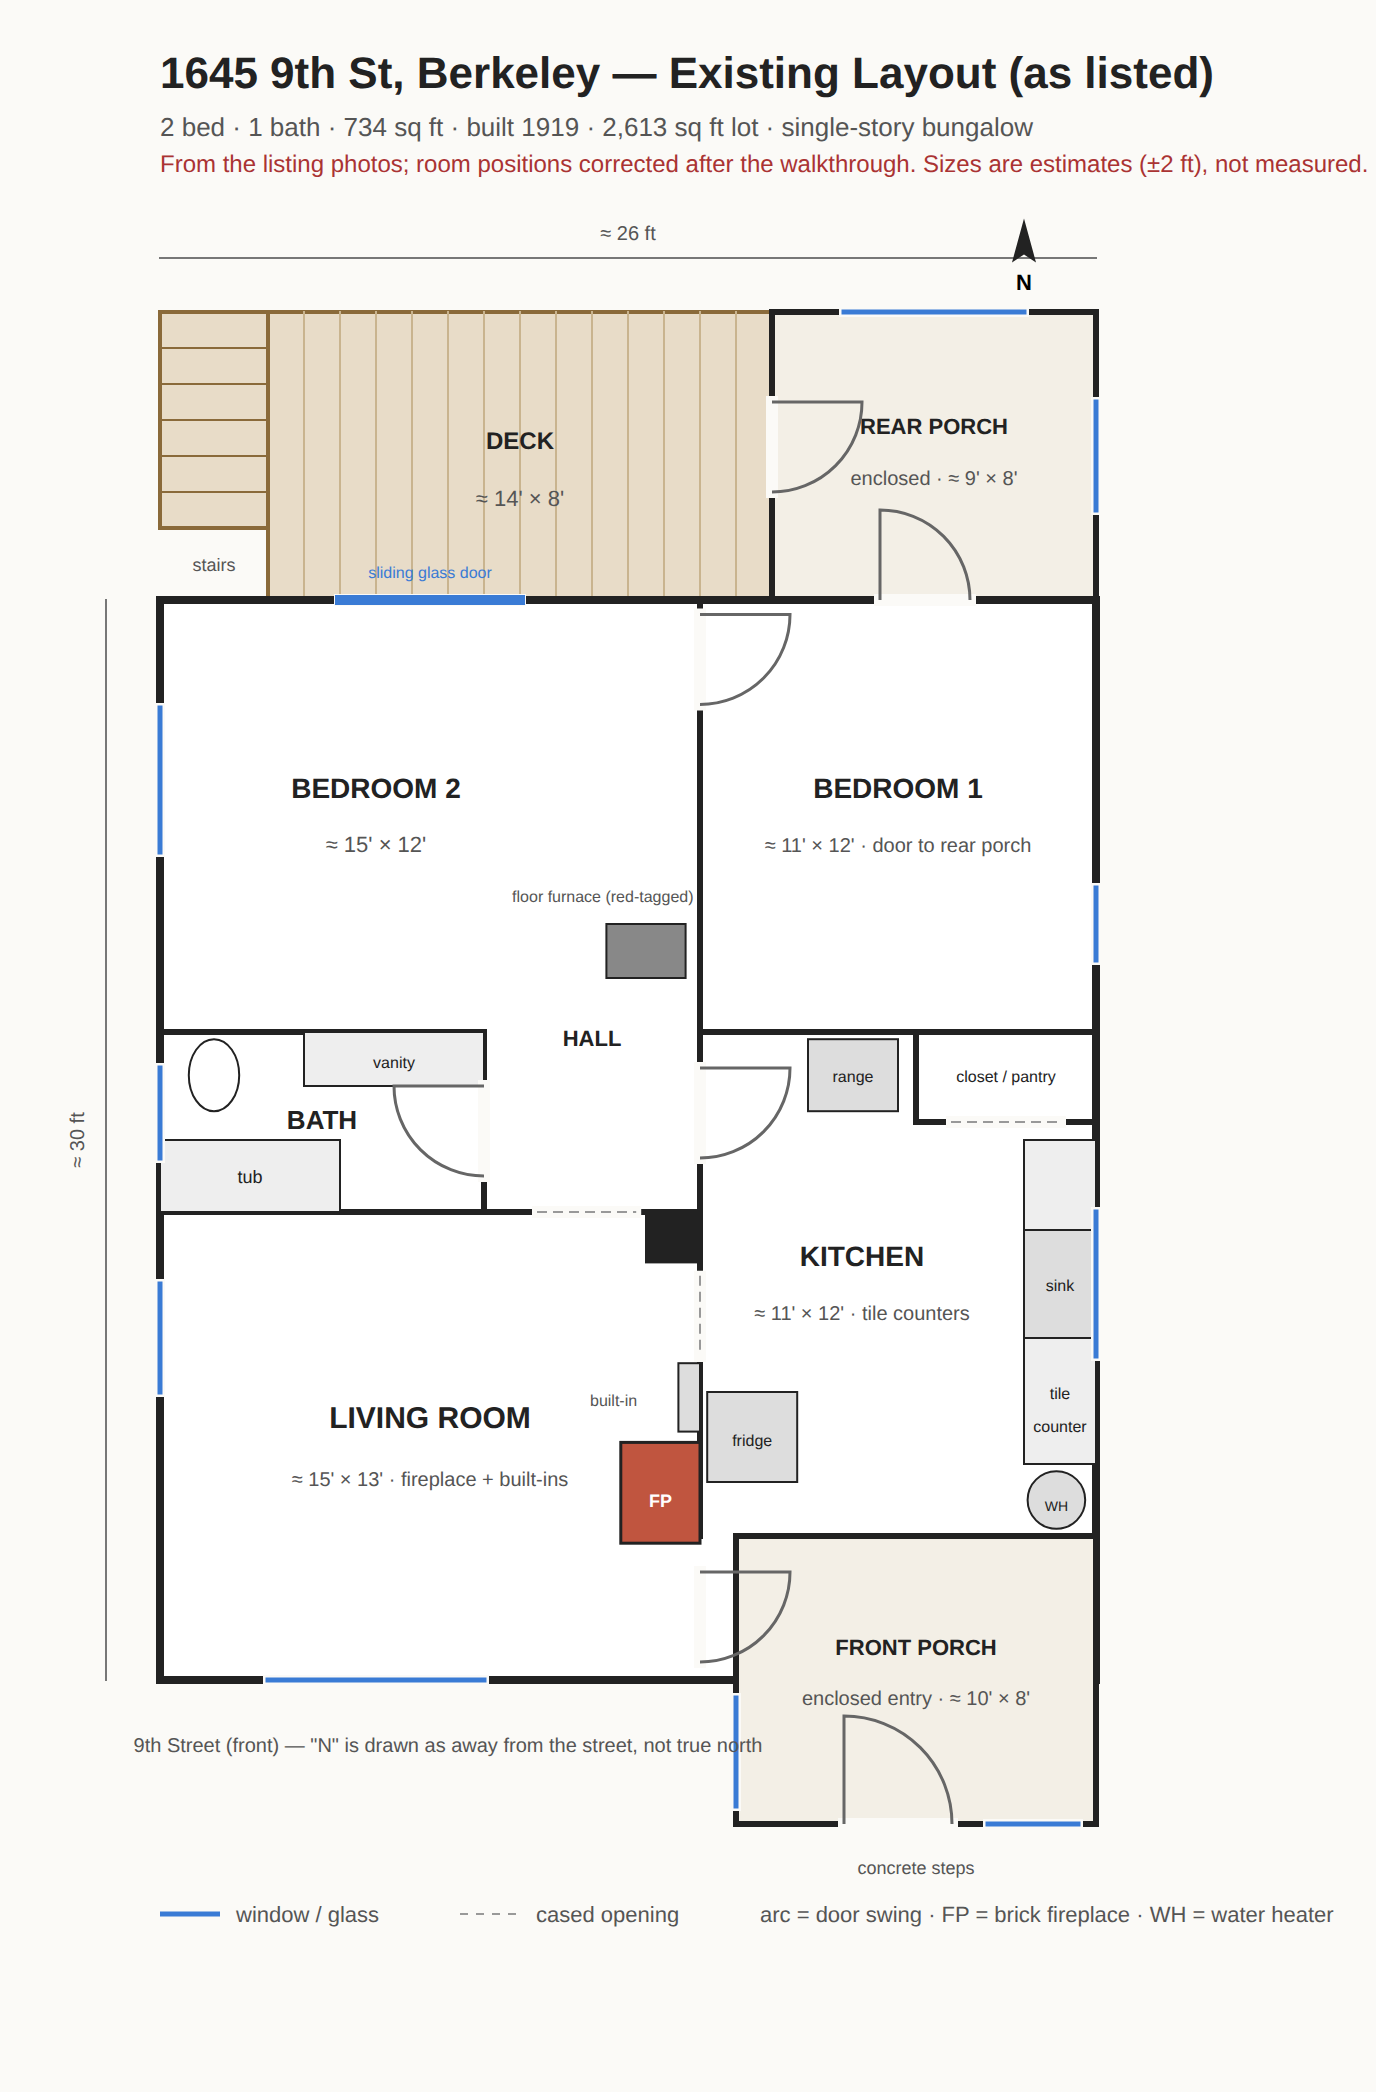
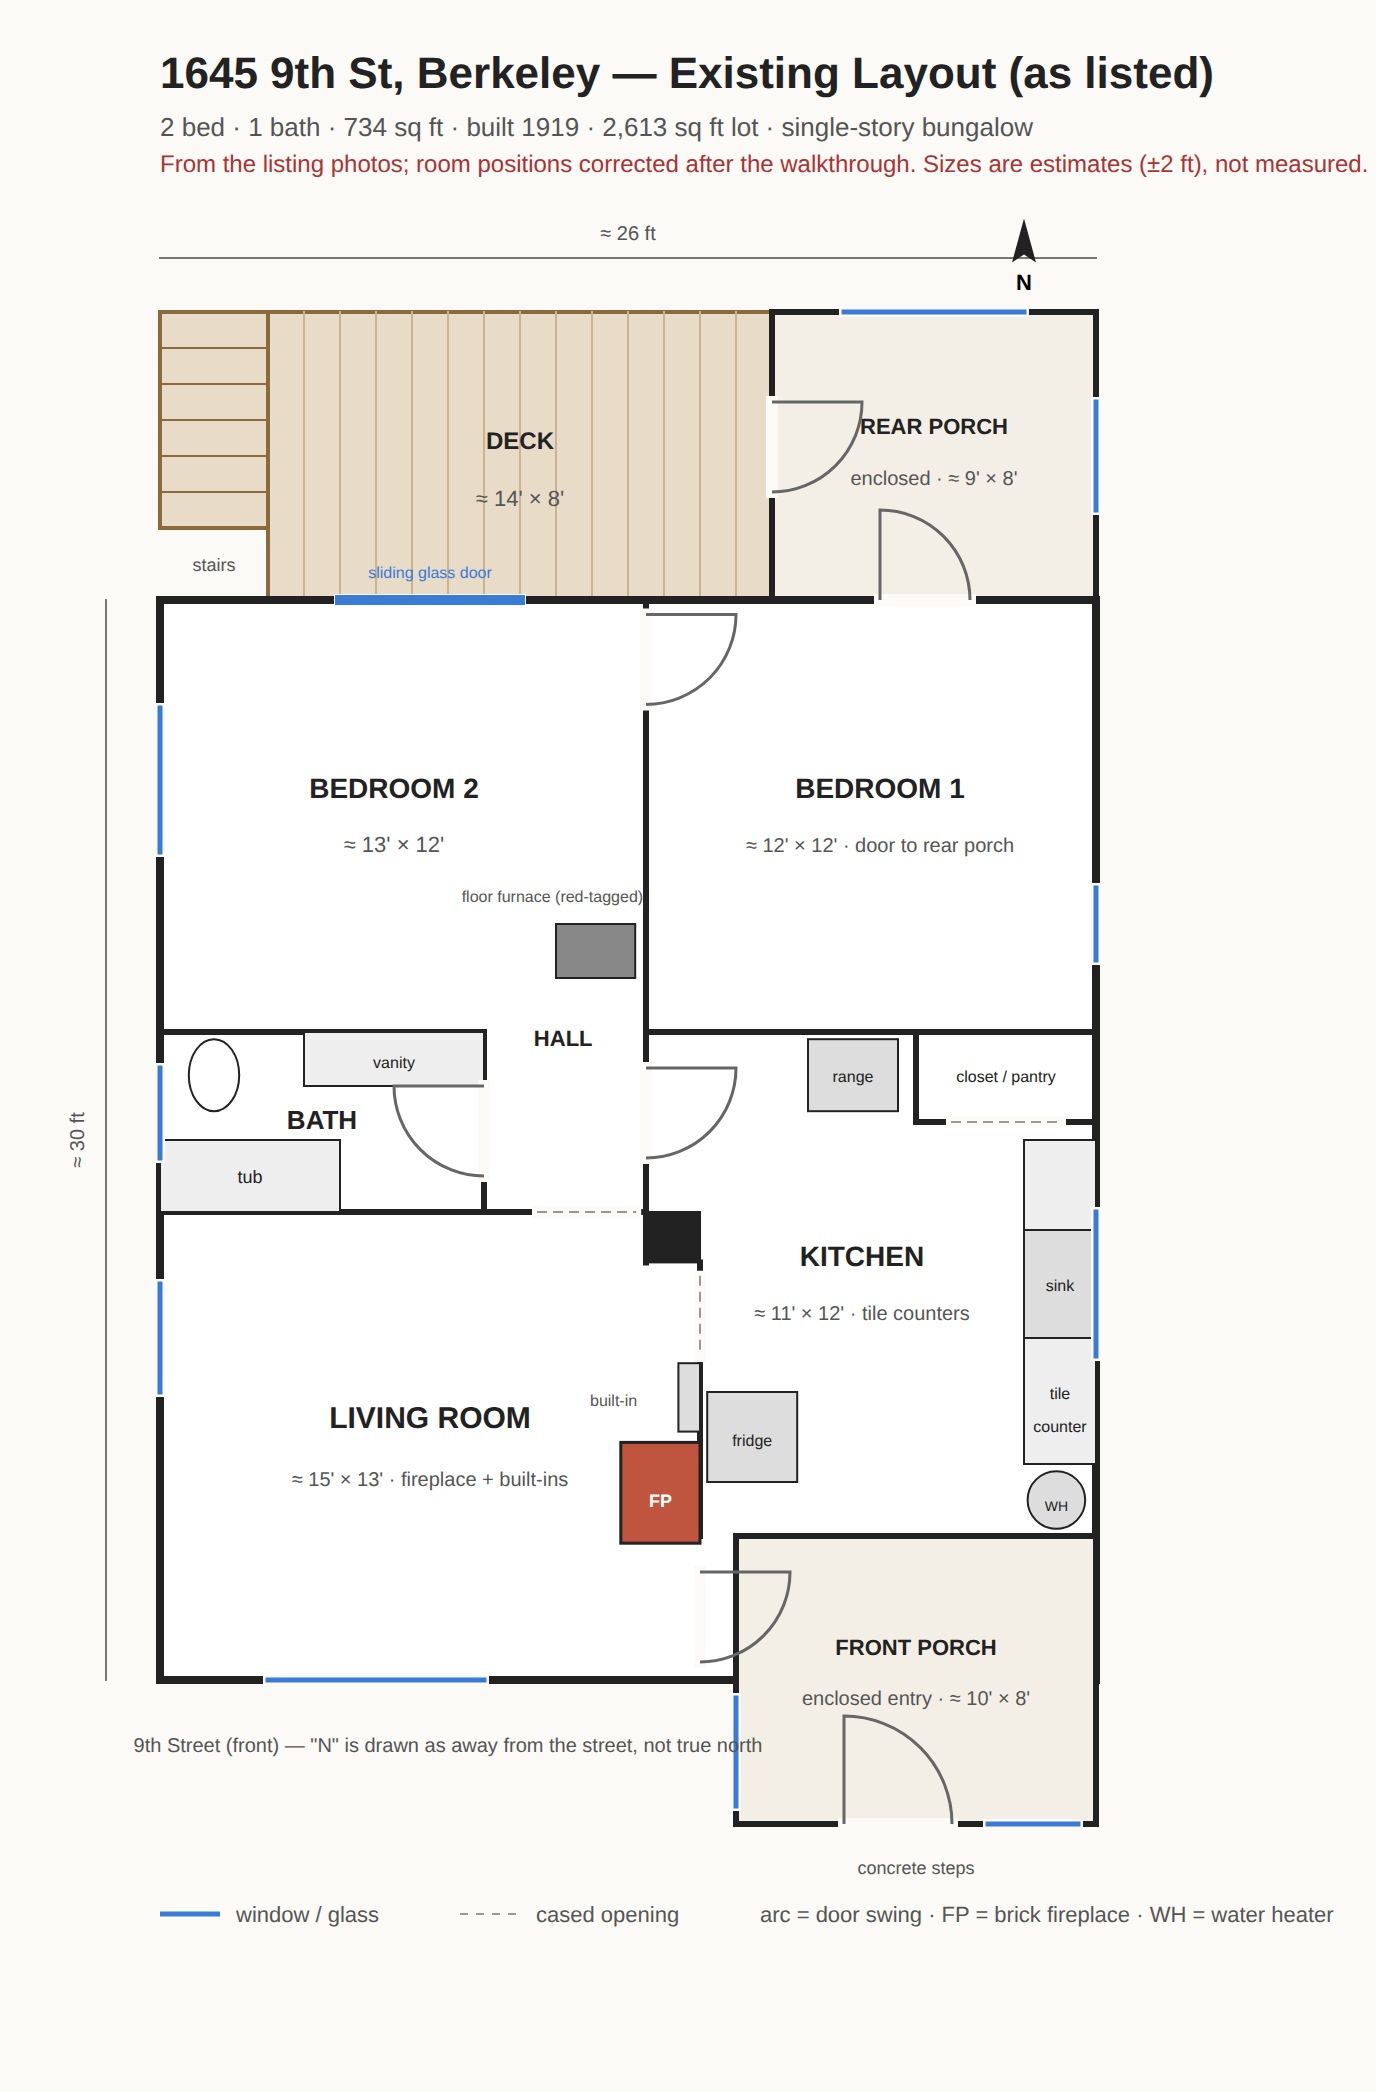
Hall wall and rear partition line up with the block at the living-room doorway
The fireplace wall sits about 1.5 ft east of the hall's east wall and the
partition between the rear rooms; the inset doorway is in that step.
Rear-left room ≈13 wide, rear-right ≈12, hall narrows to 4.5.

Claude-Session: https://claude.ai/code/session_01QP4ZkLkW7cUrZ9x3HXMY7H

diff --git a/index.html b/index.html
@@ -38,8 +38,8 @@ table{border-collapse:collapse;font-size:14px}td,th{padding:4px 12px 4px 0;text-
 <div class="notes">
 <strong>Proposed changes</strong>
 <ul>
-<li><strong>Kitchen moves to the rear-left room with the slider</strong> so it opens directly onto the deck. Becomes an eat-in kitchen, roughly 15 × 12, sharing a wet wall with the bath. Sink and range on the west wall; the existing corner door to the back room stays.</li>
-<li><strong>Old kitchen (front-right, roughly 11 × 12) becomes bedroom 1.</strong> The rear-right bedroom stays a bedroom, becomes bedroom 2, roughly 11 × 12, with a closet added. Floor furnace comes out; mini-splits instead.</li>
+<li><strong>Kitchen moves to the rear-left room with the slider</strong> so it opens directly onto the deck. Becomes an eat-in kitchen, roughly 13 × 12, sharing a wet wall with the bath. Sink and range on the west wall; the existing corner door to the back room stays.</li>
+<li><strong>Old kitchen (front-right, roughly 11 × 12) becomes bedroom 1.</strong> The rear-right bedroom stays a bedroom, becomes bedroom 2, roughly 12 × 12, with a closet added. Floor furnace comes out; mini-splits instead.</li>
 <li><strong>Rear porch becomes laundry / mudroom</strong>, still opening onto the deck. Water heater relocates there out of the kitchen. Open question: whether it's entered from bedroom 2, the deck only, or both.</li>
 <li>Living room, bath, hall, and front porch unchanged in this pass.</li>
 </ul>

diff --git a/floor-plan/generate.py b/floor-plan/generate.py
@@ -66,9 +66,9 @@ def build(variant):
     door(19,34,3,'n'); window(16,30.5,16,33.5); window(23,34,25.5,34)
     label(21,35.4,"concrete steps",9,False,"#555")
     # shared interior walls
-    line(15,0,15,12); line(15,12,26,12)   # one wall between the rear rooms (the earlier draft had a 2 ft double wall here; no evidence for it)
-    line(0,12,9,12); line(0,17,15,17); line(9,12,9,17)
-    line(15,12,15,26)
+    line(13.5,0,13.5,12); line(13.5,12,26,12)   # one wall between the rear rooms, in line with the block by the living-room doorway
+    line(0,12,9,12); line(0,17,13.5,17); line(9,12,9,17)
+    line(13.5,12,13.5,18.4); line(15,18.4,15,26)   # hall east wall at 13.5; living room fireplace wall steps out to 15
     line(21,12,21,14.5); line(21,14.5,26,14.5)
     # fireplace / built-in
     rect(12.8,23.4,15,26.2,fill="#c0553f",stroke="#222",sw=1.5); label(13.9,25.2,"FP",9,True,"#fff")   # brick fireplace sits in the living room; the far wall is flush
@@ -81,17 +81,17 @@ def build(variant):
     rect(4,12,9,13.5,fill="#eee",stroke="#222",sw=1); label(6.5,13,"vanity",8,False)
     e=P(1.5,13.2); out.append(f'<ellipse cx="{e[0]}" cy="{e[1]}" rx="{0.7*S}" ry="{1*S}" fill="#fff" stroke="#222" stroke-width="1"/>')
     if proposed:
-        label(12,15.3,"floor furnace out · mini-splits",8,False,"#1a7a3c")
+        label(11.2,15,"furnace out",8,False,"#1a7a3c"); label(11.2,16,"mini-splits in",8,False,"#1a7a3c")
     else:
-        rect(12.4,9,14.6,10.5,fill="#888",stroke="#222",sw=1); label(12.3,8.4,"floor furnace (red-tagged)",8,False,"#555")
-    label(4.5,14.7,"BATH",13); label(12,12.4,"HALL",11)
+        rect(11,9,13.2,10.5,fill="#888",stroke="#222",sw=1); label(10.9,8.4,"floor furnace (red-tagged)",8,False,"#555")
+    label(4.5,14.7,"BATH",13); label(11.2,12.4,"HALL",11)
 
     if not proposed:
         # bedroom 2 rear-left with slider; bedroom 1 rear-right; kitchen front-right (per Keith, Sept 9)
-        door(15,0.4,2.5,'e'); door(20,0,2.5,'n')          # door to the back room is in the rear corner (photo 18)
+        door(13.5,0.4,2.5,'e'); door(20,0,2.5,'n')          # door to the back room is in the rear corner (photo 18)
         line(5,0,10,0,stroke="#fbfaf7",sw=6); line(5,0,10,0,stroke="#3a7bd5",sw=5); label(7.5,-0.6,"sliding glass door",8,False,"#3a7bd5")
-        label(6,5.5,"BEDROOM 2",14); label(6,7,"≈ 15' × 12'",11,False,"#555")
-        label(20.5,5.5,"BEDROOM 1",14); label(20.5,7,"≈ 11' × 12' · door to rear porch",10,False,"#555")
+        label(6.5,5.5,"BEDROOM 2",14); label(6.5,7,"≈ 13' × 12'",11,False,"#555")
+        label(20,5.5,"BEDROOM 1",14); label(20,7,"≈ 12' × 12' · door to rear porch",10,False,"#555")
         # kitchen fixtures, front-right room
         rect(24,15,26,24,fill="#eee",stroke="#222",sw=1); label(25,22.2,"tile",8,False); label(25,23.1,"counter",8,False)
         rect(24,17.5,26,20.5,fill="#ddd",stroke="#222",sw=1); label(25,19.2,"sink",8,False)
@@ -106,15 +106,15 @@ def build(variant):
         rect(0.2,5.5,2,8,fill="#ddd",stroke="#222",sw=1); label(1.1,6.9,"sink",7,False)
         rect(0.2,9,2.2,11.5,fill="#ddd",stroke="#222",sw=1); label(1.2,10.4,"range",7,False)
         rect(5,4,10,7,fill="#f4e9d0",stroke="#8a6a3a",sw=1); label(7.5,5.8,"table / island",8,False,"#555")
-        label(7.5,9.6,"KITCHEN (eat-in)",14); label(7.5,11,"≈ 15' × 12' · opens to deck",10,False,"#555")
+        label(7,9.6,"KITCHEN (eat-in)",14); label(7,11,"≈ 13' × 12' · opens to deck",10,False,"#555")
         # bedroom 2 (was bedroom 1; gains a closet)
-        door(15,0.4,2.5,'e')                                    # kitchen -> bedroom 2, existing corner door
-        line(15,9,18,9); line(18,9,18,12); opening(18,9.3,18,11.7); label(16.5,10.7,"closet",8,False)
+        door(13.5,0.4,2.5,'e')                                  # kitchen -> bedroom 2, existing corner door
+        line(13.5,9,16.5,9); line(16.5,9,16.5,12); opening(16.5,9.3,16.5,11.7); label(15,10.7,"closet",8,False)
         door(22,0,2.5,'n')                                      # bedroom 2 -> laundry/mudroom
-        label(21,6,"BEDROOM 2",13); label(21,7.4,"≈ 11' × 12' · closet added",10,False,"#555")
+        label(20,6,"BEDROOM 2",13); label(20,7.4,"≈ 12' × 12' · closet added",10,False,"#555")
         label(23.8,-0.7,"WH moves here",7,False,"#a33")
     # shared: bedroom 1, living room, doors
-    door(9,13.5,2.5,'w'); door(15,13,2.5,'e'); opening(22,14.5,25,14.5); opening(10.5,17,13.2,17); door(15,27,2.5,'e')
+    door(9,13.5,2.5,'w'); door(13.5,13,2.5,'e'); opening(22,14.5,25,14.5); opening(10.5,17,13.2,17); door(15,27,2.5,'e')
     window(0,3,0,7); window(0,13,0,15.5); window(0,19,0,22); window(3,30,9,30); window(26,17,26,21); window(26,8,26,10)
     if proposed:
         label(19.5,18.5,"BEDROOM 1",14); label(19.5,20,"≈ 11' × 12' · former kitchen",10,False,"#555"); label(23.5,13.4,"closet",8,False)

diff --git a/CLAUDE.md b/CLAUDE.md
@@ -41,15 +41,15 @@ Rough photo index:
 - `floor-plan/generate.py` — generates both SVGs; edit this, run it, then re-export PNGs with headless Chrome (see below)
 - `index.html` — shareable page with an existing/proposed toggle and both photo galleries, published at https://keithmancuso.github.io/1645-9th-st/
 
-The existing plan was reconstructed from the listing photos only, not measured. Treat room sizes as ±2 ft. Layout as drawn: living room front-left; along its east wall from north to south: an inset cased doorway straight into the front-right room (photo 04, the wall projects into the living room at that corner), the built-in, the brick fireplace (flush on the far side), and the door to the front porch; enclosed front porch front-right; **kitchen behind the porch (front-right, ≈11×12)**; small central hall; bathroom on the left; **bedroom 1 rear-right (≈11×12) with a door to the rear porch, reached through a door in the rear corner of bedroom 2** (photo 18); bedroom 2 rear-left with a slider to the deck and the floor furnace grate near its east wall; unfinished enclosed rear porch off bedroom 1. Bathroom position and door placements are the least certain parts.
+The existing plan was reconstructed from the listing photos only, not measured. Treat room sizes as ±2 ft. Layout as drawn: living room front-left; along its east wall from north to south: an inset cased doorway straight into the front-right room (photo 04: the fireplace wall sits about 1.5 ft east of the hall wall and rear partition, and the doorway is in that step), the built-in, the brick fireplace (flush on the far side), and the door to the front porch; enclosed front porch front-right; **kitchen behind the porch (front-right, ≈11×12)**; small central hall; bathroom on the left; **bedroom 1 rear-right (≈12×12) with a door to the rear porch, reached through a door in the rear corner of bedroom 2** (photo 18); bedroom 2 rear-left with a slider to the deck and the floor furnace grate near its east wall; unfinished enclosed rear porch off bedroom 1. Bathroom position and door placements are the least certain parts.
 
 Correction, Sept 9: the first draft had the kitchen and bedroom 1 swapped (kitchen rear-right, bedroom 1 front-right). Keith confirmed after the walkthrough that the front-right room is the kitchen today. Room sizes still need checking against a real plan; none was found in the listing or the disclosure package. The first draft also drew a 2 ft double wall between the two rear rooms; there was no evidence for it, so it is now one wall with a single door in the rear corner, where photo 18 shows it. The same photo shows no closet in that corner, so the bedroom 2 closet from the first draft is gone.
 
 ### Proposed changes (as of Sept 9, 2026)
 
-1. **Kitchen moves to the rear-left room with the slider** so it opens directly onto the deck (eat-in, ≈15×12). Reason: don't want to walk through a bedroom to reach the yard. The new kitchen shares its south wall with the bathroom, so the wet wall is shared.
+1. **Kitchen moves to the rear-left room with the slider** so it opens directly onto the deck (eat-in, ≈13×12). Reason: don't want to walk through a bedroom to reach the yard. The new kitchen shares its south wall with the bathroom, so the wet wall is shared.
 2. **Old kitchen (front-right, ≈11×12) becomes bedroom 1.** Its plumbing gets abandoned.
-3. **Rear-right bedroom stays a bedroom** and becomes bedroom 2 (≈11×12) with a closet added on the hall wall. It keeps the existing corner door, which now opens from the kitchen; a door from the hall would need the hall's east wall opened. Range goes on the west wall with the sink; the corner door rules out a run on the back wall.
+3. **Rear-right bedroom stays a bedroom** and becomes bedroom 2 (≈12×12) with a closet added on the hall wall. It keeps the existing corner door, which now opens from the kitchen; a door from the hall would need the hall's east wall opened. Range goes on the west wall with the sink; the corner door rules out a run on the back wall.
 4. **Rear porch becomes laundry / mudroom**, still opening onto the deck; water heater relocates there. Open question: entered from bedroom 2, the deck only, or both.
 5. Living room, bath, hall, front porch unchanged in this pass. Open question: the living room's inset doorway opens straight into the old kitchen, which becomes bedroom 1. Either close it and use the hall door, or accept a bedroom off the living room.
 
